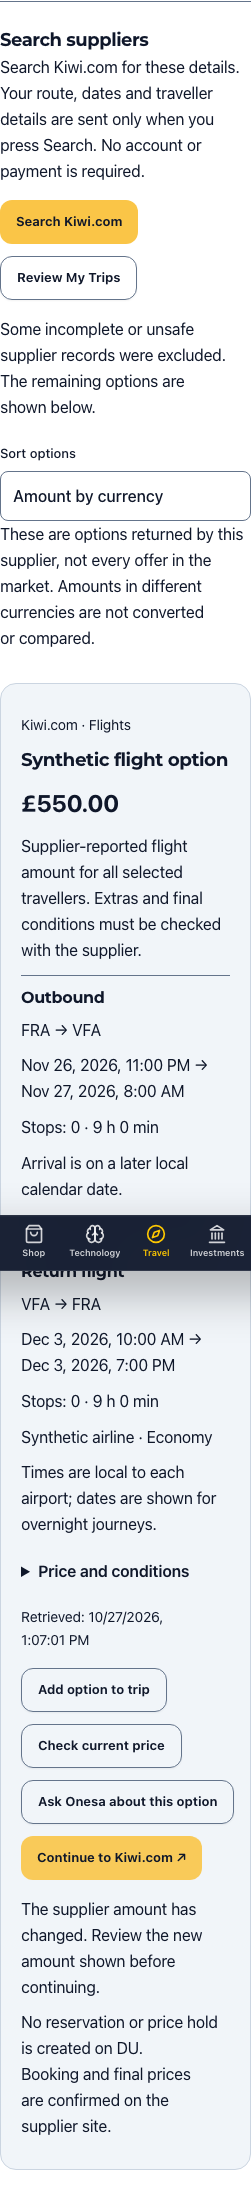
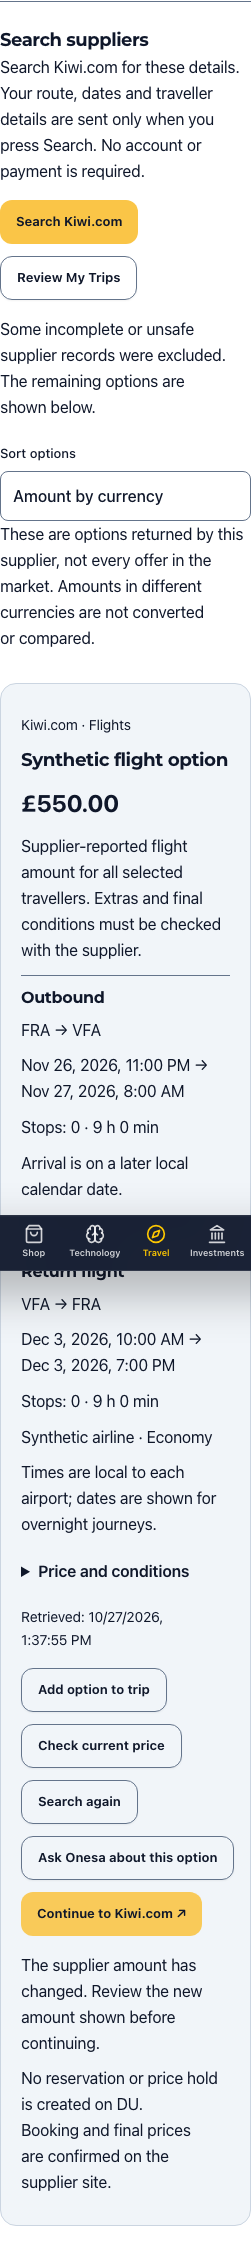
Restore supplier criteria through contextual trip retries

diff --git a/du-platform-frontend/src/modules/travel/SupplierResults.tsx b/du-platform-frontend/src/modules/travel/SupplierResults.tsx
@@ -203,6 +203,16 @@ export function SupplierQuoteCard({
         <Button variant="outline" disabled={busy} onClick={checkPrice}>
           {t(busy ? "travel.live.checking" : "travel.live.check")}
         </Button>
+        <Button variant="outline" asChild>
+          <Link
+            href={`/travel/${current.category}`}
+            onClick={() =>
+              updateDraft(d => ({ ...d, criteria: current.criteria }))
+            }
+          >
+            {t("travel.search-again")}
+          </Link>
+        </Button>
         <Button
           variant="outline"
           onClick={() => {

diff --git a/docs/travel-southern-africa.md b/docs/travel-southern-africa.md
@@ -133,7 +133,7 @@ secret needs provisioning. Historical observations remain history; DU's five-min
 review window is not a supplier price hold or expiry guarantee. Before a booking
 link appears, an explicit recheck searches the same criteria and matches the
 itinerary/property identity. Changed amounts require review; missing observations
-retain the trip and show search-again guidance. Final supplier terms remain
+retain the trip and expose a contextual search-again action that restores the option’s original airports, dates and travellers. Final supplier terms remain
 controlling. No availability or quoted price is reserved on DU.
 
 Saved searches strip selected observations and allowances. Saving a full trip
